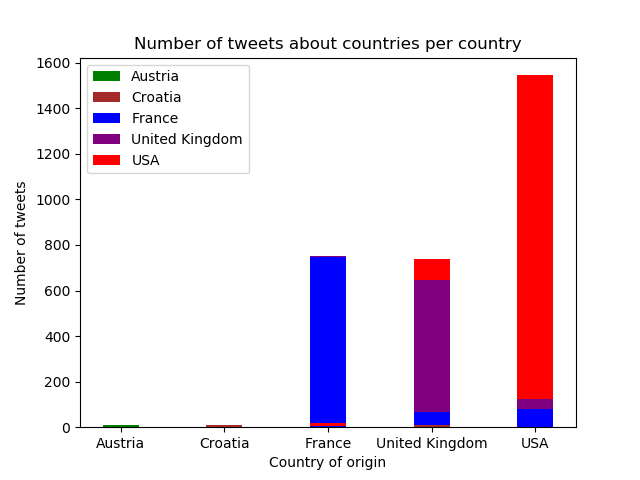
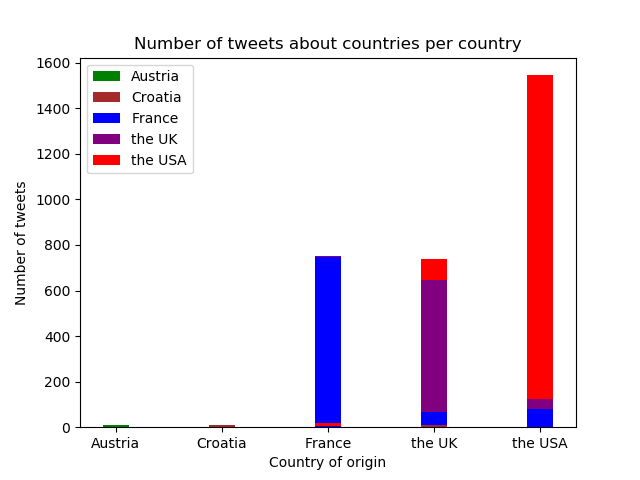
Graphs

diff --git a/visualisor.py b/visualisor.py
@@ -1,7 +1,6 @@
 import os
 import json
 import matplotlib.pyplot as plt
-import numpy as np
 
 data = {}
 counts = {}
@@ -15,7 +14,8 @@ for country in os.listdir("analysed/"):
         with open("analysed/" + country + "/" + filename, "r") as f:
             target = filename.strip(".json")
             counts[country][target] = 0
-            othersImage[country][target] = {"score": 0, "negative": 0, "positive": 0, "neutral": 0}
+            if country != target:
+                othersImage[country][target] = {"score": 0, "negative": 0, "positive": 0, "neutral": 0}
             for line in f:
                 counts[country][target] += 1
                 polarity = float(json.loads(line)["sentiment"]["polarity"])
@@ -35,14 +35,12 @@ with open("visualisations/data.json", "w+") as file:
 # Display settings
 barWidth = 0.35
 countryKeys = ["austria", "croatia", "france", "uk", "usa"]
-countries = ["Austria", "Croatia", "France", "United Kingdom", "USA"]
+countries = ["Austria", "Croatia", "France", "the UK", "the USA"]
 colors = ["green", "brown", "blue", "purple", "red"]
-OneToFive = [1, 2, 3, 4, 5]
+OneToFive = [(i + 1) * (barWidth * 4) for i in range(5)]
+happinessReport = [7.139, 5.321, 6.489, 6.814, 6.886]
 
-plt.title("Number of tweets about countries per country")
-plt.xlabel("Country of origin")
-plt.ylabel("Number of tweets")
-plt.xticks(OneToFive, countries)
+# Counts for each country for each target
 
 x = [[data["counts"][country][target] if country in data["counts"].keys() and target in data["counts"][
     country].keys() else 0 for country in countryKeys] for target in countryKeys]
@@ -53,34 +51,66 @@ for i in range(len(x)):
     else:
         plt.bar(OneToFive, x[i], barWidth, color=colors[i])
 
+plt.title("Number of tweets about countries per country")
+plt.xlabel("Country of origin")
+plt.ylabel("Number of tweets")
+plt.xticks(OneToFive, countries)
 plt.legend(countries)
 plt.savefig("visualisations/count_tweets")
 
-# TODO
-# For each country get score and divide by (number of pos + number of neg), compare this number between countries, and then see if the order is similar to the happiness report, see if the differences are similar as well
+# What do countries think of themselves
 
-
-exit()
-N = 5
-men_means = (20, 35, 30, 35, 27)
-men_std = (2, 3, 4, 1, 2)
-
-ind = np.arange(N)  # the x locations for the groups
-width = 0.35  # the width of the bars
+x = [[data["self_image"][country][aspect] if country in data["self_image"].keys() else 0 for country in countryKeys] for
+     aspect in ["positive", "negative", "neutral"]]
 
 fig, ax = plt.subplots()
-rects1 = ax.bar(ind, men_means, width, color='r', yerr=men_std)
+ax.bar([x - barWidth for x in OneToFive], x[0], barWidth, color="green")
+ax.bar([x for x in OneToFive], x[1], barWidth, color="red")
+ax.bar([x + barWidth for x in OneToFive], x[2], barWidth, color="blue")
 
-women_means = (25, 32, 34, 20, 25)
-women_std = (3, 5, 2, 3, 3)
-rects2 = ax.bar(ind + width, women_means, width, color='y', yerr=women_std)
+plt.title("Number of tweets with sentiment per country about themselves")
+plt.xlabel("Country")
+plt.ylabel("Number of tweets")
+plt.xticks(OneToFive, countries)
+plt.legend(["Positive", "Negative", "Neutral"])
+plt.savefig("visualisations/self_image")
 
-# add some text for labels, title and axes ticks
-ax.set_ylabel('Scores')
-ax.set_title('Scores by group and gender')
-ax.set_xticks(ind + width / 2)
-ax.set_xticklabels(('G1', 'G2', 'G3', 'G4', 'G5'))
+# Comparison with World Happiness Report
 
-ax.legend((rects1[0], rects2[0]), ('Men', 'Women'))
+x = [10 * data["self_image"][country]["score"] / (
+        data["self_image"][country]["positive"] + data["self_image"][country]["negative"]) if country in data[
+    "self_image"].keys() else 0 for country in countryKeys]
 
-plt.show()
+fig, ax = plt.subplots()
+ax.bar([x - barWidth / 2 for x in OneToFive], x, barWidth, color="blue")
+ax.bar([x + barWidth / 2 for x in OneToFive], happinessReport, barWidth, color="green")
+
+plt.title("Happiness from tweets compared to the World Happiness Report")
+plt.xlabel("Country")
+plt.ylabel("Happiness score")
+plt.xticks(OneToFive, countries)
+plt.legend(["Happiness from tweets", "World Happiness Report"])
+plt.savefig("visualisations/happiness_report")
+
+# What do countries think of each other
+
+for i, country in enumerate(countryKeys):
+    countryKeysWithoutThisOne = countryKeys[:]
+    countryKeysWithoutThisOne.pop(i)
+    countriesWithoutThisOne = countries[:]
+    countriesWithoutThisOne.pop(i)
+    x = [[data["others_image"][country][target][aspect] if country in data["others_image"].keys() and target in
+                                                           data["others_image"][country].keys() else 0 for target in
+          countryKeysWithoutThisOne] for aspect in ["positive", "negative", "neutral"]]
+
+    fig, ax = plt.subplots()
+    ax.bar([x - barWidth for x in OneToFive[:-1]], x[0], barWidth, color="green")
+    ax.bar([x for x in OneToFive[:-1]], x[1], barWidth, color="red")
+    ax.bar([x + barWidth for x in OneToFive[:-1]], x[2], barWidth, color="blue")
+
+    plt.title("Number of tweets with sentiment from " + countries[i] + " about other countries")
+    plt.xlabel("Country")
+    plt.ylabel("Number of tweets")
+    plt.xticks(OneToFive[:-1], countriesWithoutThisOne)
+    plt.legend(["Positive", "Negative", "Neutral"])
+    plt.savefig("visualisations/others_image_" + country)
